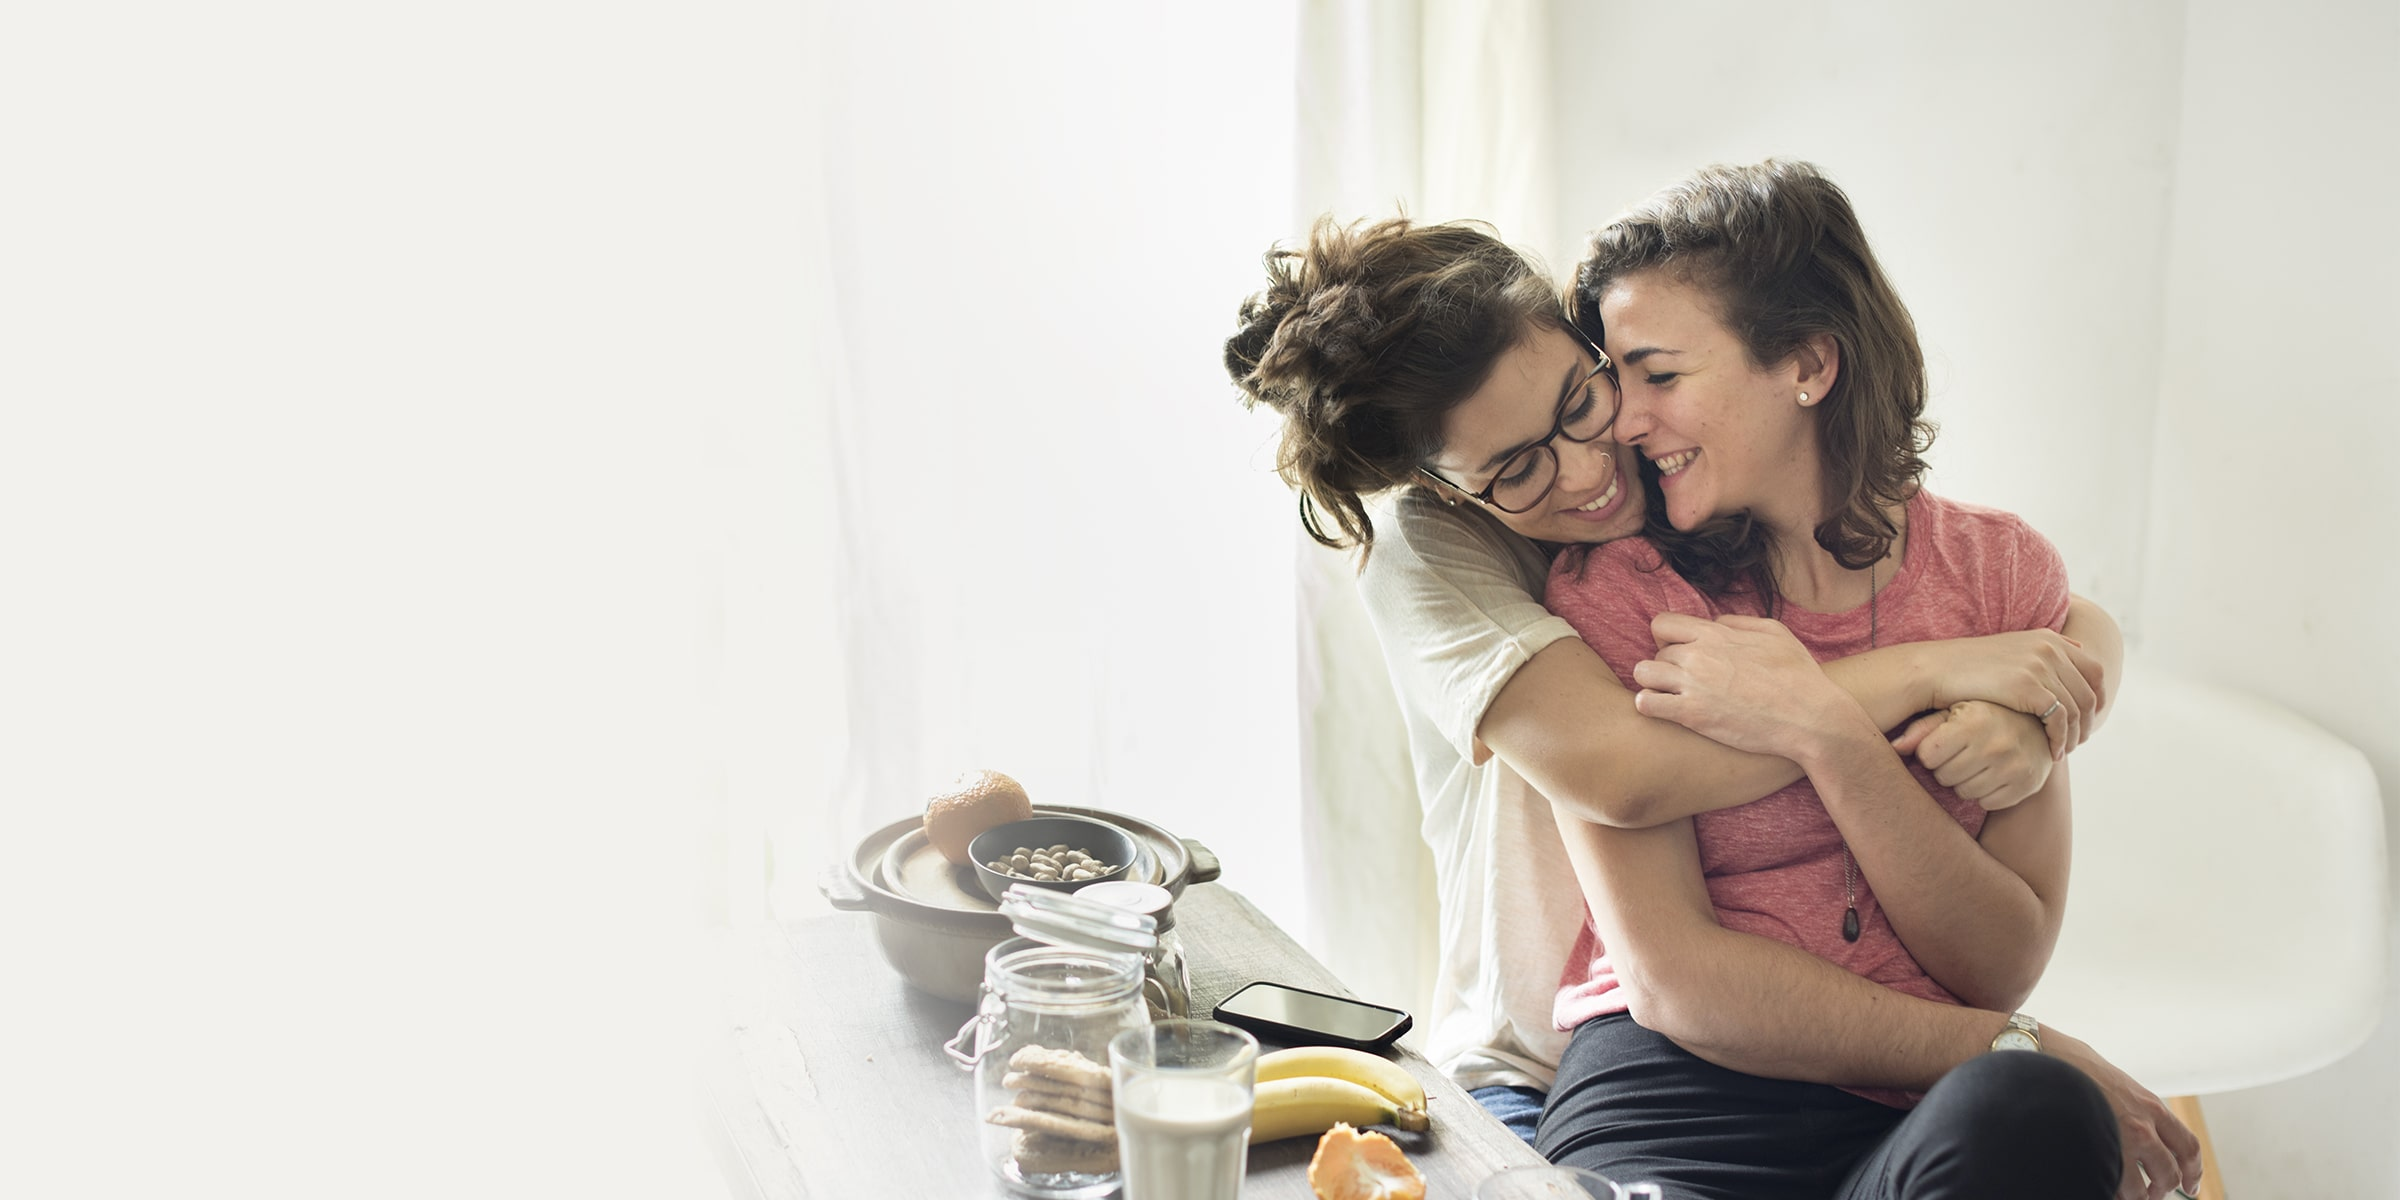
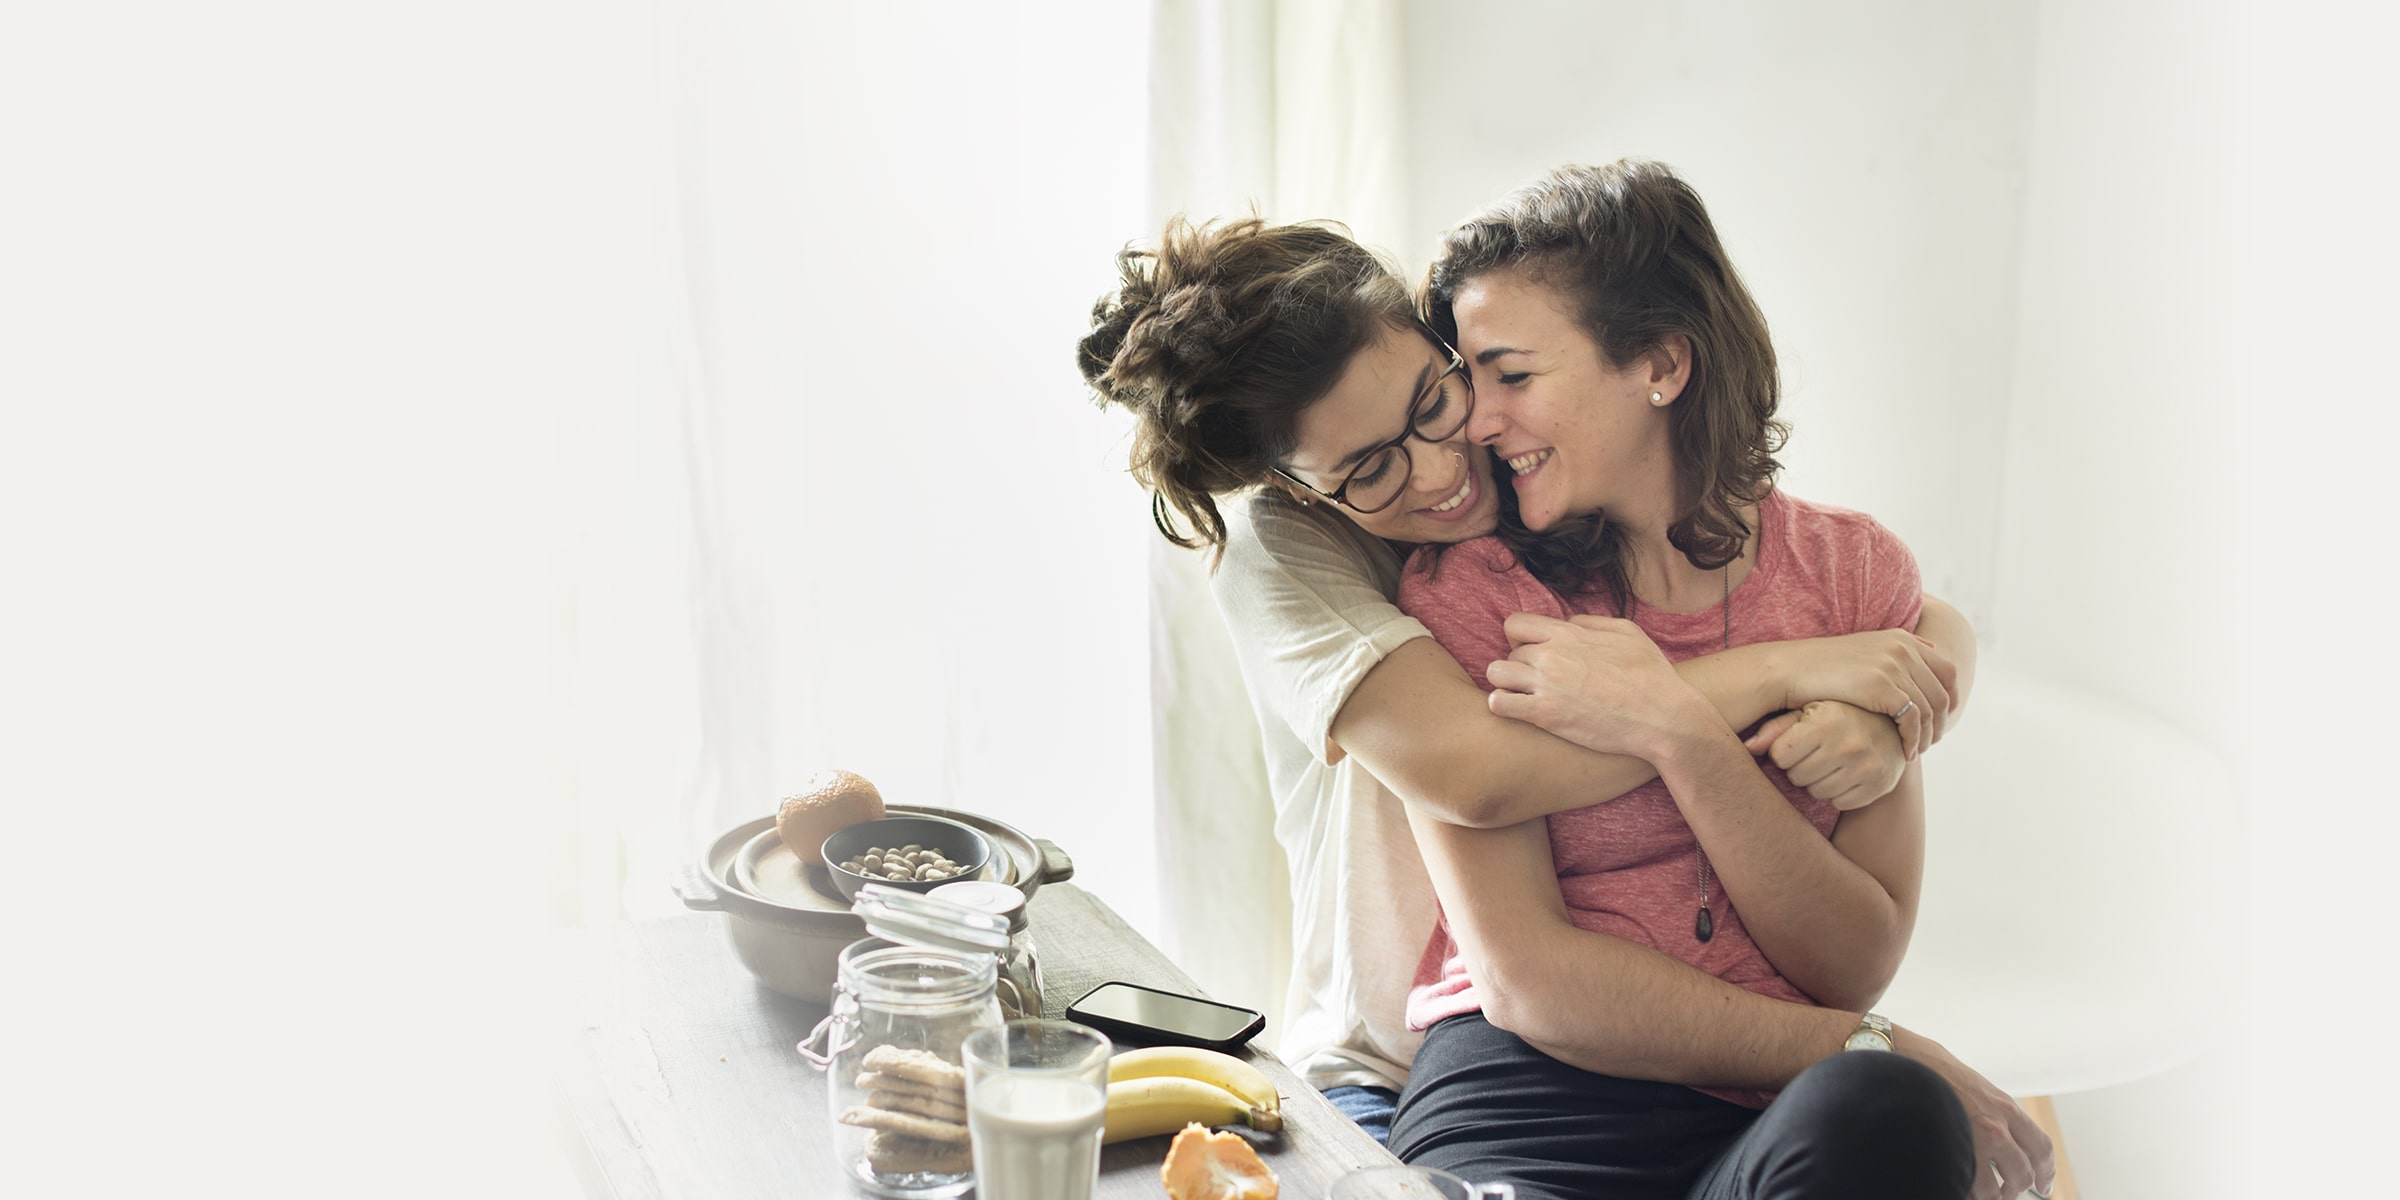
cleanup

diff --git a/src/styles/tailwind.css b/src/styles/tailwind.css
@@ -29,7 +29,7 @@ ul.main-navigation > li {
 }
 
 ul.main-navigation > li > a {
-  @apply block px-2 lg:pl-3 py-12 ml-2 lg:ml-3;
+  @apply block px-2 lg:pl-3 ml-2 lg:ml-3;
 }
 
 ul.main-navigation > li > ul {

diff --git a/src/index.md b/src/index.md
@@ -2,5 +2,6 @@
 title: The Familie
 description: An LGBTQIA+ Affirming Therapy Clinic, Serving 40 US States
 keywords: "lgbt therapy, gender affirming therapy, lgbt relationship therapy"
-layout: soon
+transparentHeader: true
+mastImage: home-mast
 ---
